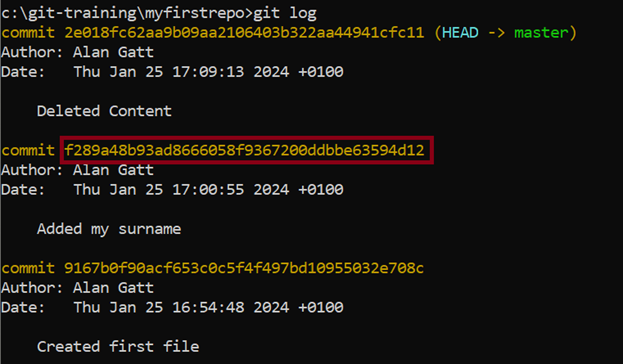
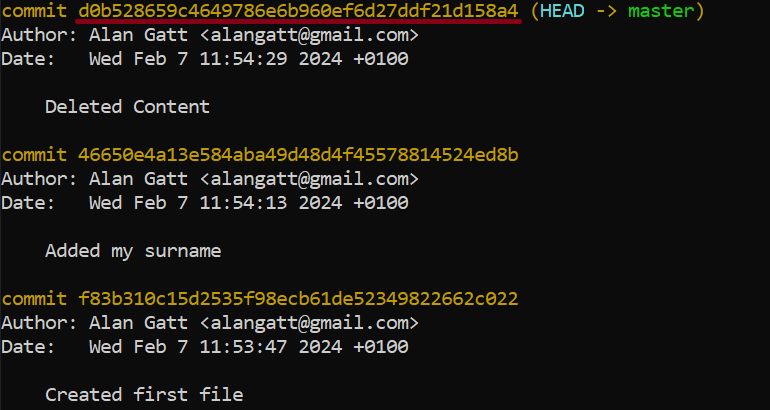
Fixed Mistake with git Revert

diff --git a/1.1_GIT/01_GIT.md b/1.1_GIT/01_GIT.md
@@ -116,7 +116,7 @@ git restore "My First File.txt"
 
 If you check the status again, there will be no changes. Also, if you open the file, you should see that the latest changes were removed.
 
-### Reset a Commit
+### Revert a Commit
 
 Delete the content from the file, and then add the changes, and commit it.
 
@@ -131,30 +131,14 @@ Now, the file will be empty. Let’s assume that this was a mistake, and we want
 git log
 ```
 
-Let’s delete our last commit; to do this we must determine its commit code.
+Let’s revert our last commit; to do this we must determine its commit code.
 
 ![Alt text](./images/img_commits.png)
 
-So, in order to delete our latest commit:
+So, in order to revert our latest commit:
 
 ```
 git revert f289a48b93ad8666058f9367200ddbbe63594d12
-```
-
-Now restore the file and the last changes should be removed.
-
-```
-git restore "My First File.txt"
-```
-
-Also, if you check the log, now you will see that the final commit is not there, it’s like it never happened.
-
-### Reverting to a Previous Commit
-
-Let’s repeat the process, so delete the content of a file, add the file to the staging area and commit it again. Check the log, you should have three commits. This time, instead of deleting the last commit, we will undo it and create an additional commit. We must use the code for the last commit.
-
-```
-git revert 695b1902e5b133c84aa5bcfe9dcc7320998c8da1
 ```
 
 This will ask you for a message, enter the message and confirm.
